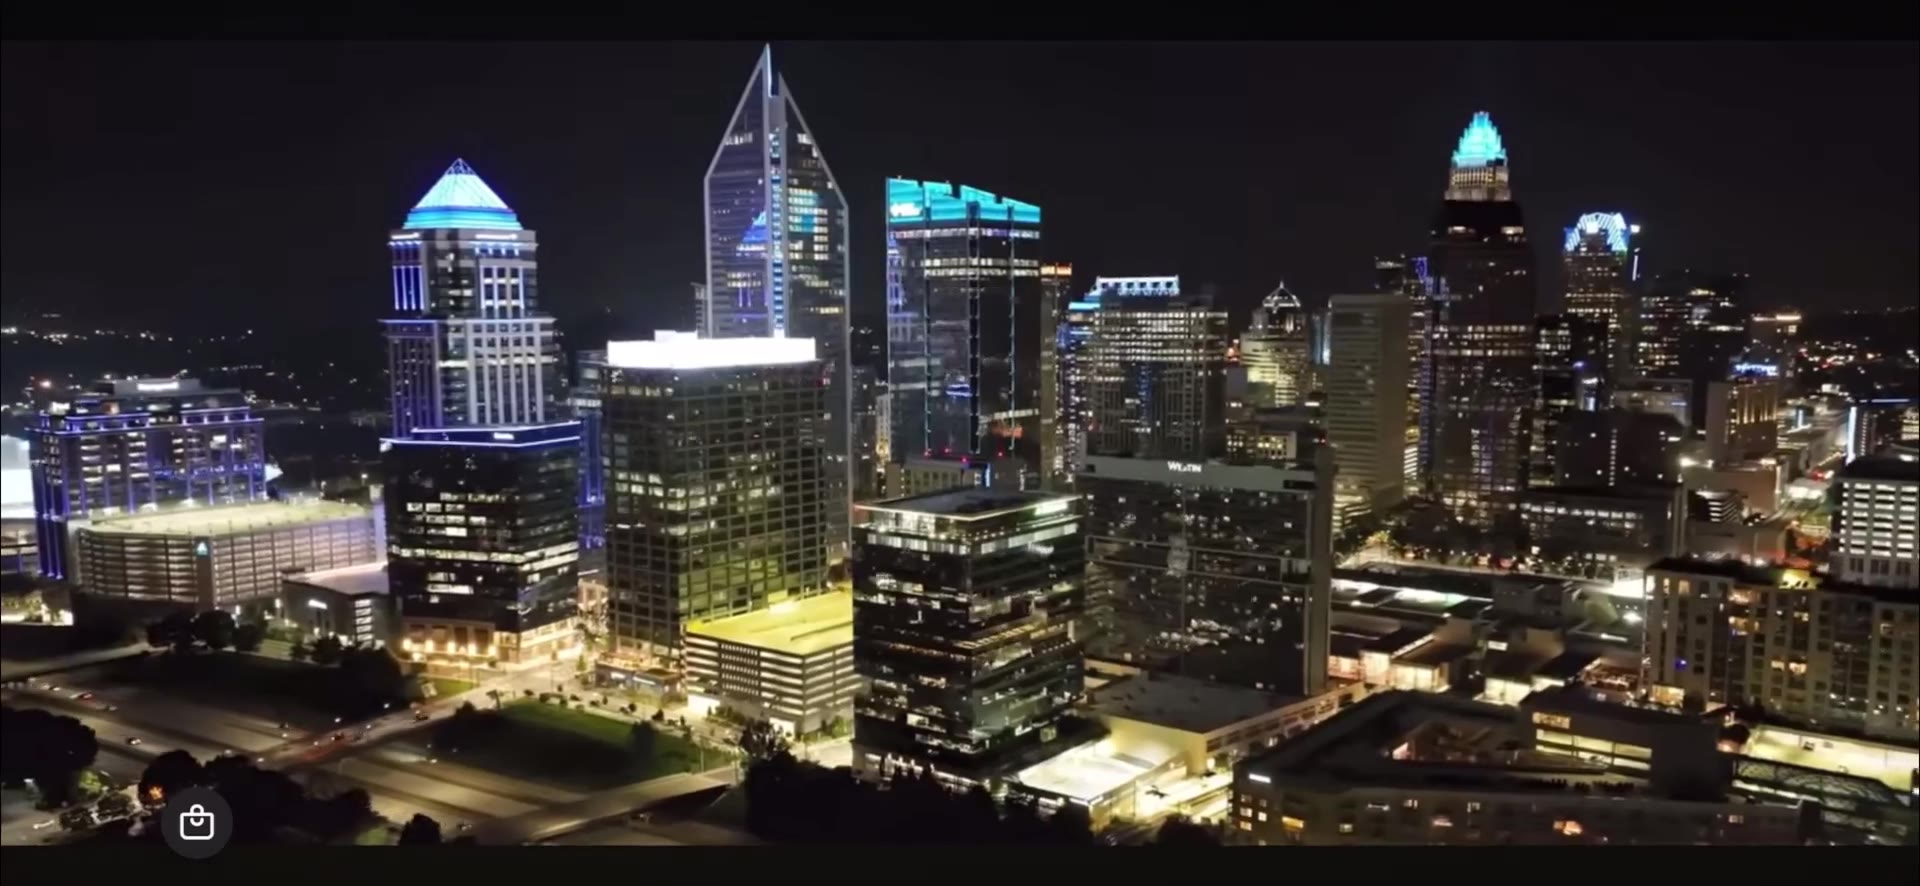
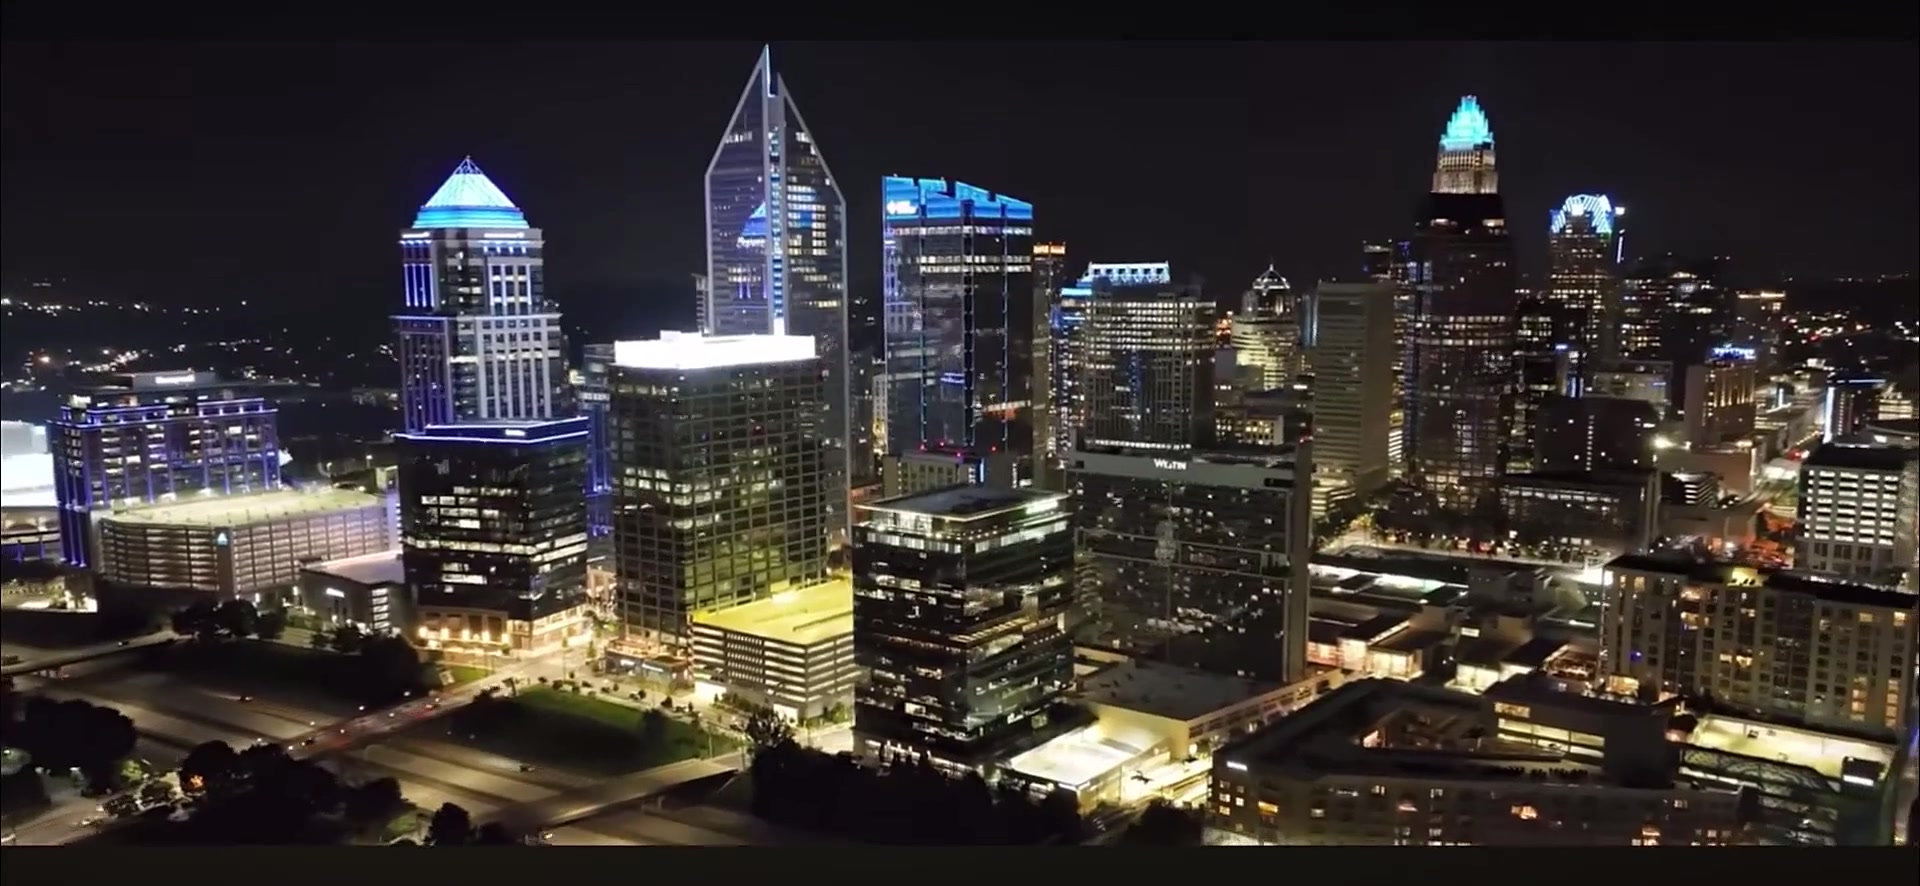
Darken hero overlay for legibility + sharper hero video

diff --git a/components/home/Hero.tsx b/components/home/Hero.tsx
@@ -19,7 +19,9 @@ export function Hero() {
       >
         <source src="/videos/hero.mp4" type="video/mp4" />
       </video>
-      <div className="absolute inset-0 bg-black/60" />
+      {/* Darken for text legibility — solid base + bottom gradient */}
+      <div className="absolute inset-0 bg-black/55" />
+      <div className="absolute inset-0 bg-gradient-to-b from-black/40 via-black/45 to-black/80" />
 
       <div className="relative z-10 mx-auto max-w-4xl px-6 text-center">
         <div className="mx-auto mb-9 flex h-24 w-24 items-center justify-center rounded-full border border-white/60 text-white">
@@ -28,7 +30,7 @@ export function Hero() {
           </span>
         </div>
 
-        <div className="mx-auto mb-8 inline-flex border border-white/20 bg-white/10 px-6 py-3 backdrop-blur-sm">
+        <div className="mx-auto mb-8 inline-flex rounded-full border border-white/25 bg-black/35 px-6 py-3 backdrop-blur-sm">
           <Eyebrow>{siteConfig.heroEyebrow}</Eyebrow>
         </div>
 
@@ -37,7 +39,7 @@ export function Hero() {
           <span className="block italic text-orange">{siteConfig.heroHeadlineAccent}</span>
         </h1>
 
-        <p className="mx-auto mt-8 max-w-2xl bg-white/10 px-8 py-5 text-sm leading-7 text-white/80 backdrop-blur-sm md:text-base">
+        <p className="mx-auto mt-8 max-w-2xl rounded-2xl bg-black/35 px-8 py-5 text-sm leading-7 text-white/90 backdrop-blur-sm md:text-base">
           {siteConfig.heroBody}
         </p>
 